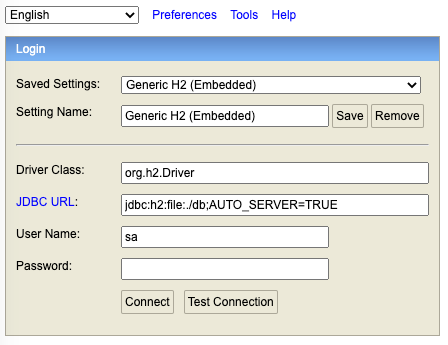
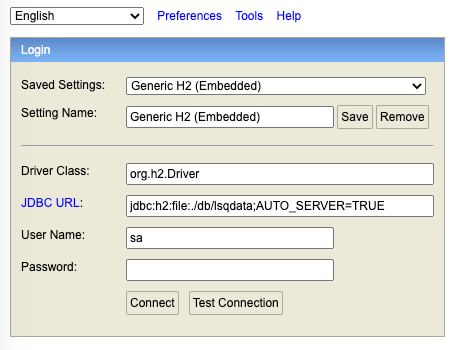
Fix db permission issue with Docker

Changed region(s): [[0.0, 0.0, 1.0, 0.9855], [0.25, 0.8406, 0.625, 0.9275]]

diff --git a/README.md b/README.md
@@ -26,7 +26,7 @@ If you would like to run the service with Docker, install
 ### With Docker
 
 ```shell script
-docker build -t lsq-interview . && docker run --rm -p 8080:8080 lsq-interview
+docker build -t lsq-interview . && docker run --rm -p 8080:8080 -v lsqinterviewdata:/app/db lsq-interview
 ```
 
 ### Without Docker
@@ -46,6 +46,6 @@ curl -v -F file=@csv/invoice_data_1.csv localhost:8080/upload
 ## Database
 
 To inspect the database and run queries, navigate to [http://localhost:8080/h2-console](http://localhost:8080/h2-console)
-in a web browser. For JDBC URL, enter `jdbc:h2:file:./db;AUTO_SERVER=TRUE`. Leave everything else the same and hit connect.
+in a web browser. For JDBC URL, enter `jdbc:h2:file:./db/lsqdata;AUTO_SERVER=TRUE`. Leave everything else the same and hit connect.
 
 ![H2 Console](./images/h2-console.png)
